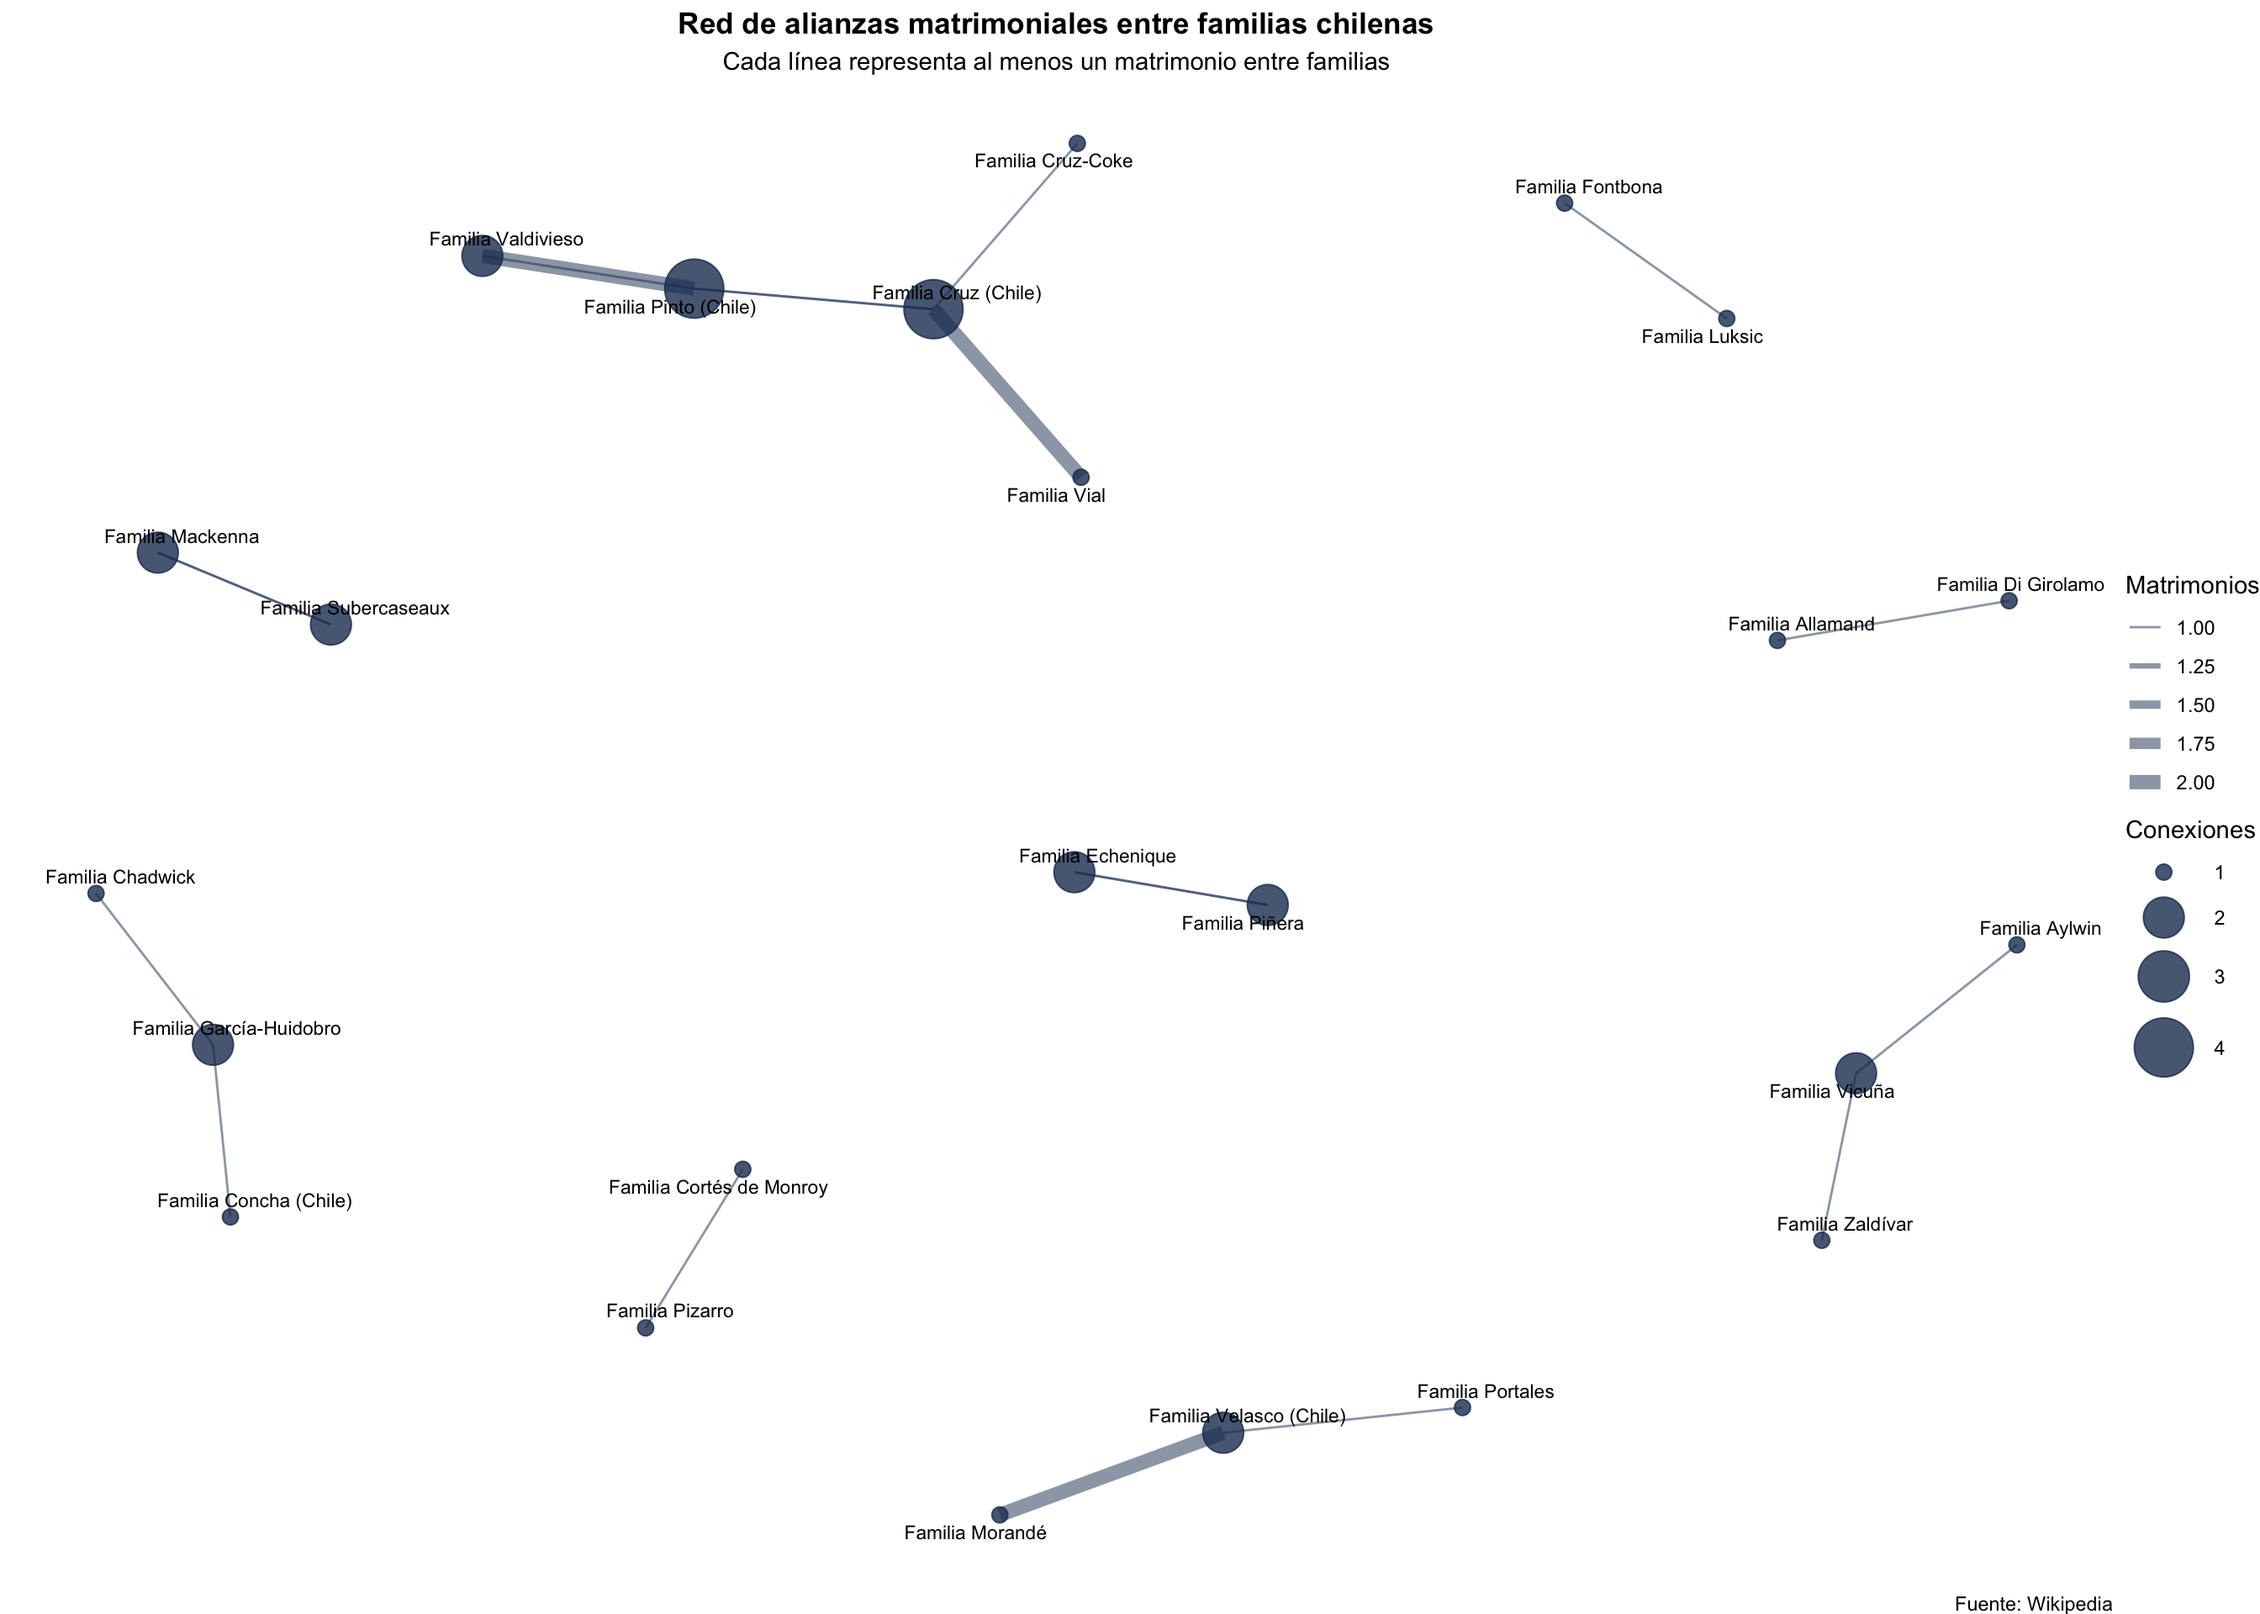
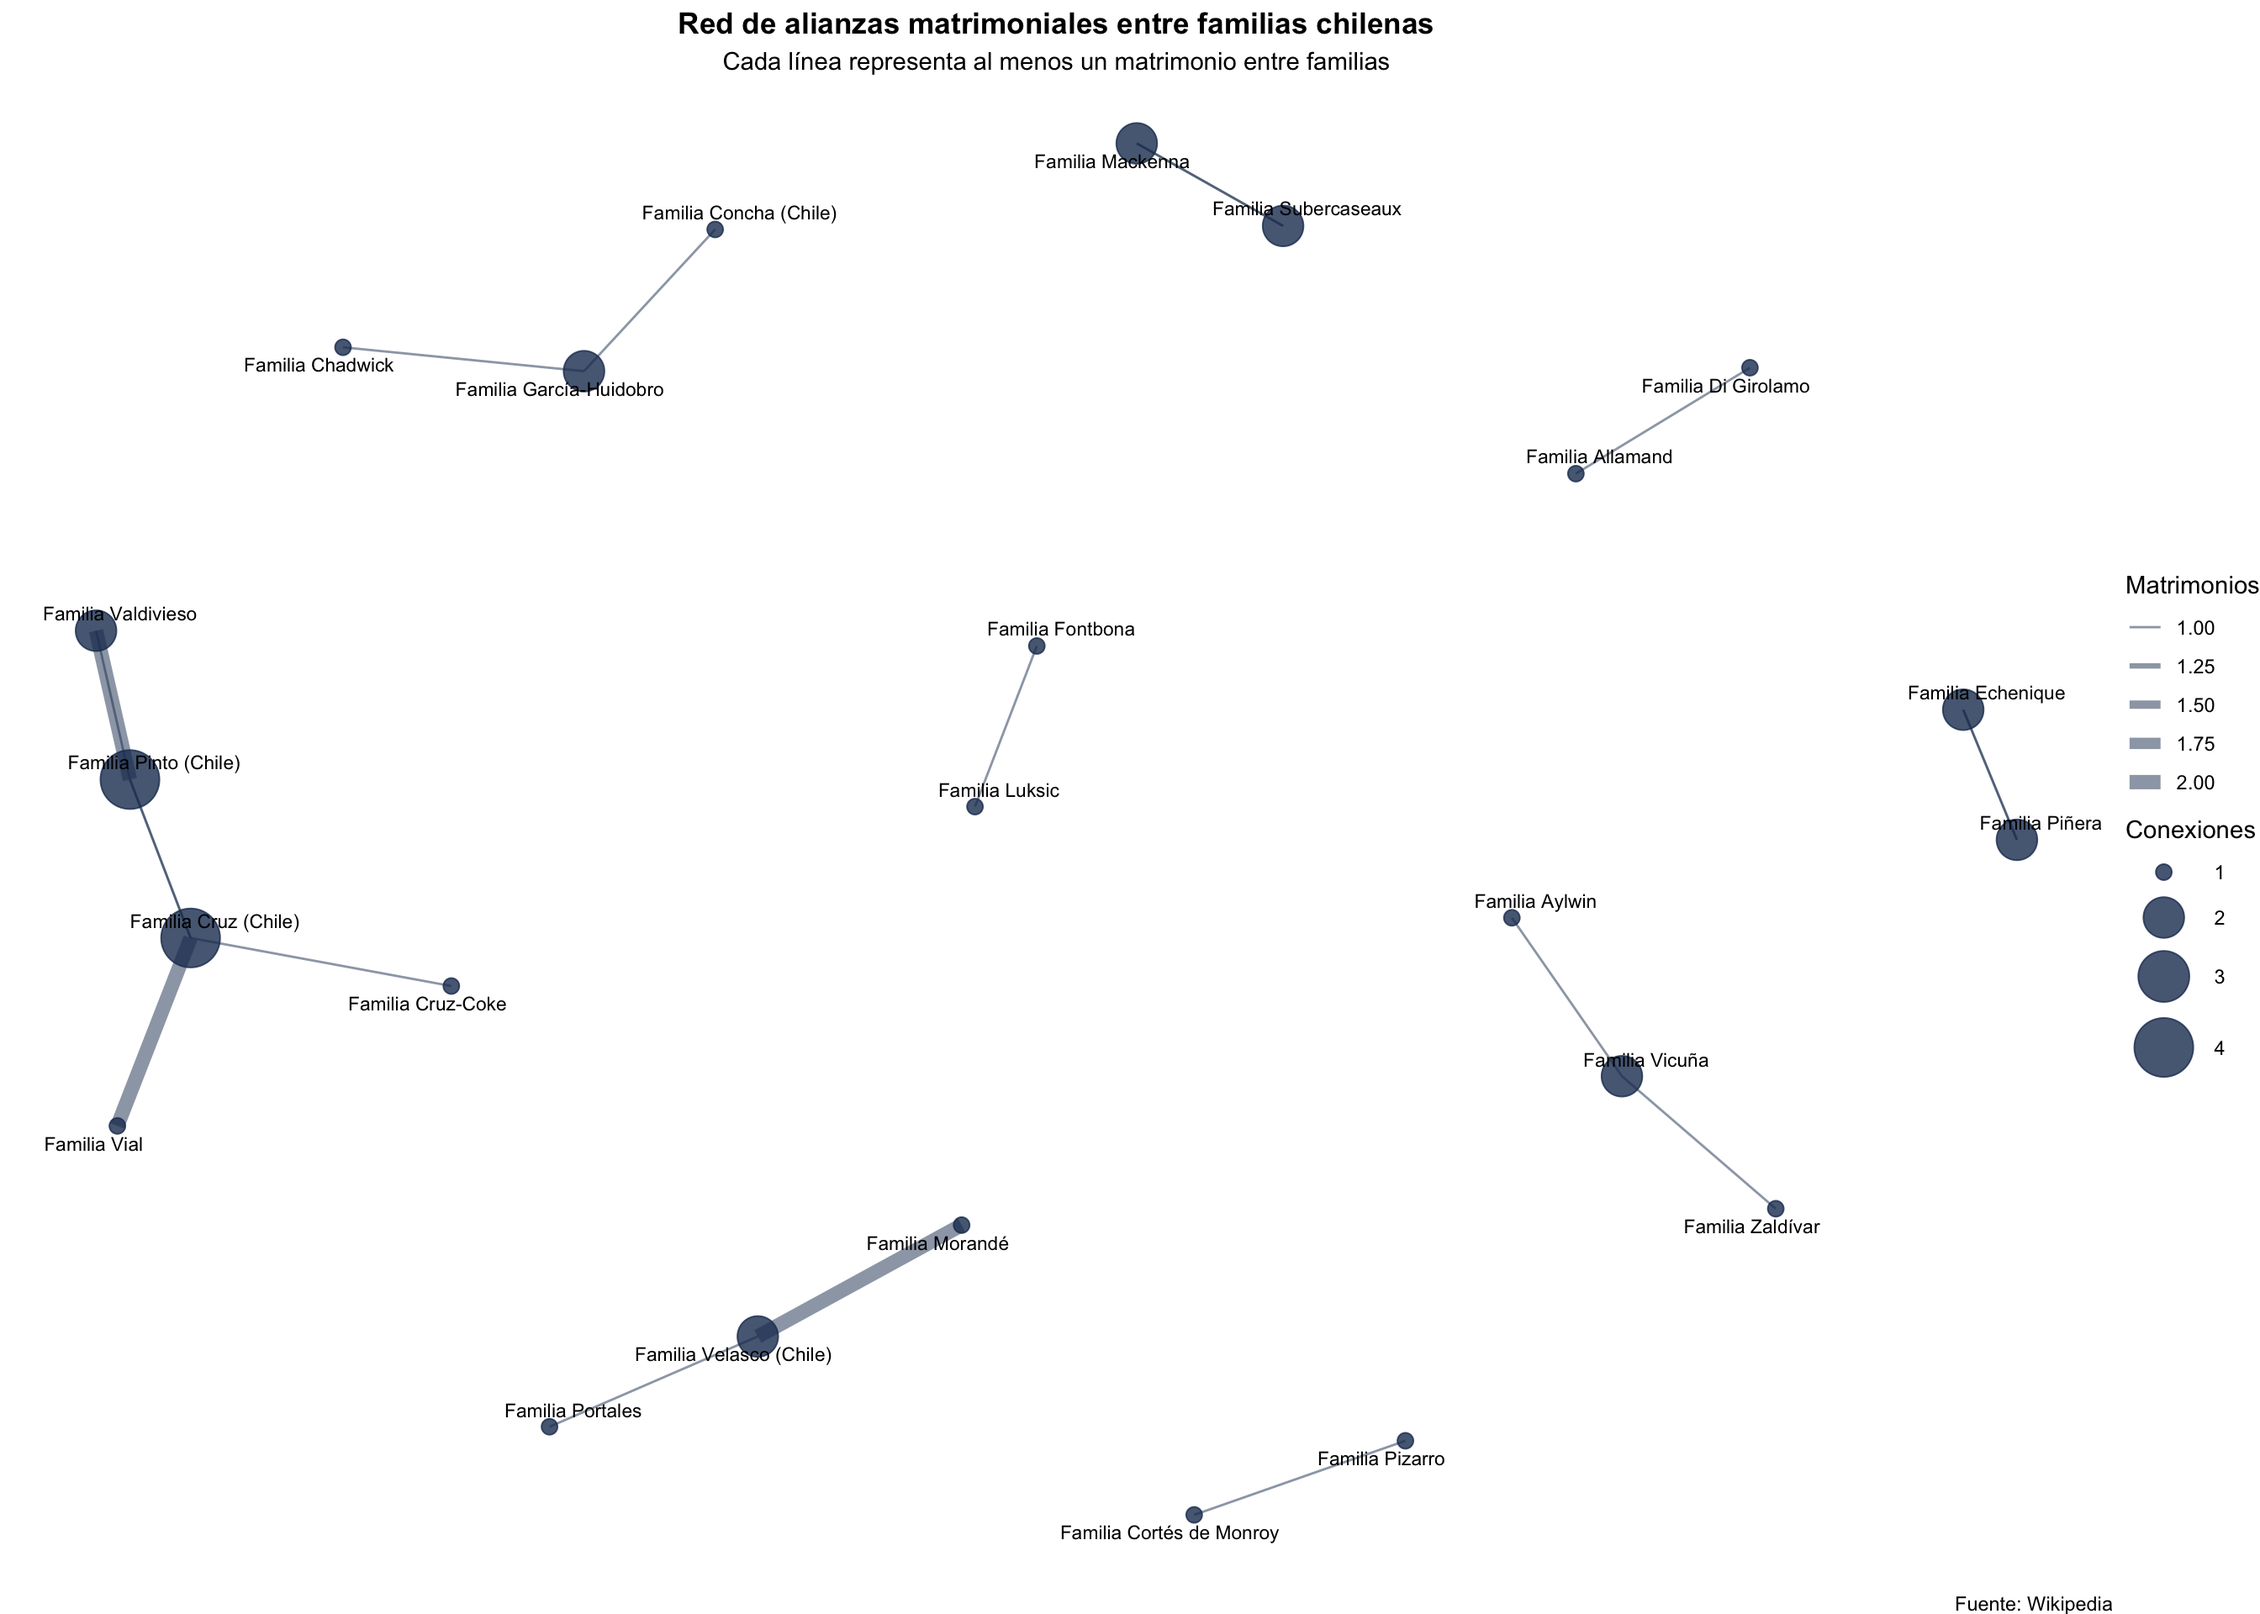
up-article

diff --git a/article/redes_elites_latam.html b/article/redes_elites_latam.html
@@ -7,7 +7,7 @@
 <meta name="viewport" content="width=device-width, initial-scale=1.0, user-scalable=yes">
 
 <meta name="author" content="Proyecto familiaRes">
-<meta name="dcterms.date" content="2026-02-02">
+<meta name="dcterms.date" content="2026-04-19">
 
 <title>Redes Familiares y Conexiones Transnacionales de las Élites Latinoamericanas</title>
 <style>
@@ -145,7 +145,7 @@ pre > code.sourceCode > span > a:first-child::before { text-decoration: underlin
     <div>
     <div class="quarto-title-meta-heading">Published</div>
     <div class="quarto-title-meta-contents">
-      <p class="date">February 2, 2026</p>
+      <p class="date">April 19, 2026</p>
     </div>
   </div>
   
@@ -194,7 +194,7 @@ pre > code.sourceCode > span > a:first-child::before { text-decoration: underlin
 <span id="cb1-17"><a href="#cb1-17" aria-hidden="true" tabindex="-1"></a><span class="fu">cat</span>(<span class="st">"Total de personas:"</span>, <span class="fu">nrow</span>(all_data), <span class="st">"</span><span class="sc">\n</span><span class="st">"</span>)</span></code><button title="Copy to Clipboard" class="code-copy-button"><i class="bi"></i></button></pre></div>
 </details>
 <div class="cell-output cell-output-stdout">
-<pre><code>Total de personas: 3999 </code></pre>
+<pre><code>Total de personas: 4019 </code></pre>
 </div>
 <details class="code-fold">
 <summary>Ver código</summary>
@@ -249,10 +249,10 @@ pre > code.sourceCode > span > a:first-child::before { text-decoration: underlin
 </tr>
 <tr class="even">
 <td style="text-align: left;">chile</td>
-<td style="text-align: right;">1398</td>
-<td style="text-align: right;">97</td>
+<td style="text-align: right;">1418</td>
+<td style="text-align: right;">98</td>
 <td style="text-align: right;">106</td>
-<td style="text-align: right;">7.6</td>
+<td style="text-align: right;">7.5</td>
 </tr>
 <tr class="odd">
 <td style="text-align: left;">colombia</td>
@@ -330,7 +330,7 @@ pre > code.sourceCode > span > a:first-child::before { text-decoration: underlin
 <span id="cb6-51"><a href="#cb6-51" aria-hidden="true" tabindex="-1"></a><span class="fu">cat</span>(<span class="st">"Total de relaciones extraídas:"</span>, <span class="fu">nrow</span>(edges_enriched), <span class="st">"</span><span class="sc">\n</span><span class="st">"</span>)</span></code><button title="Copy to Clipboard" class="code-copy-button"><i class="bi"></i></button></pre></div>
 </details>
 <div class="cell-output cell-output-stdout">
-<pre><code>Total de relaciones extraídas: 4346 </code></pre>
+<pre><code>Total de relaciones extraídas: 4387 </code></pre>
 </div>
 </div>
 </section>
